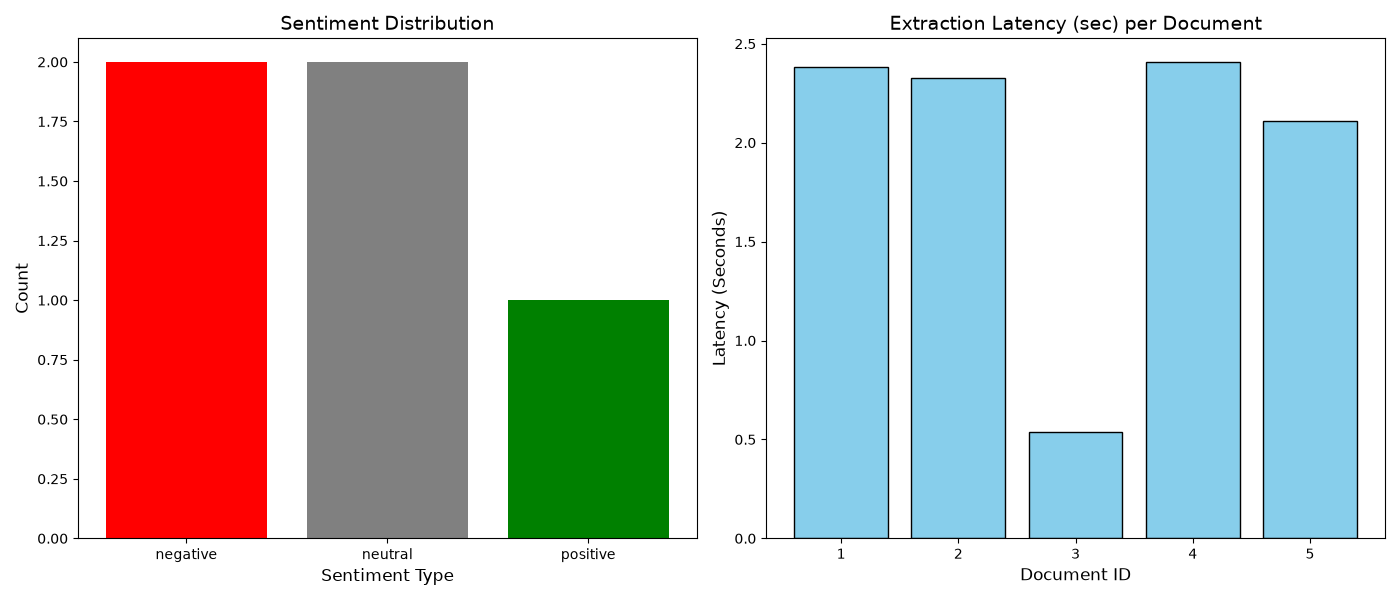
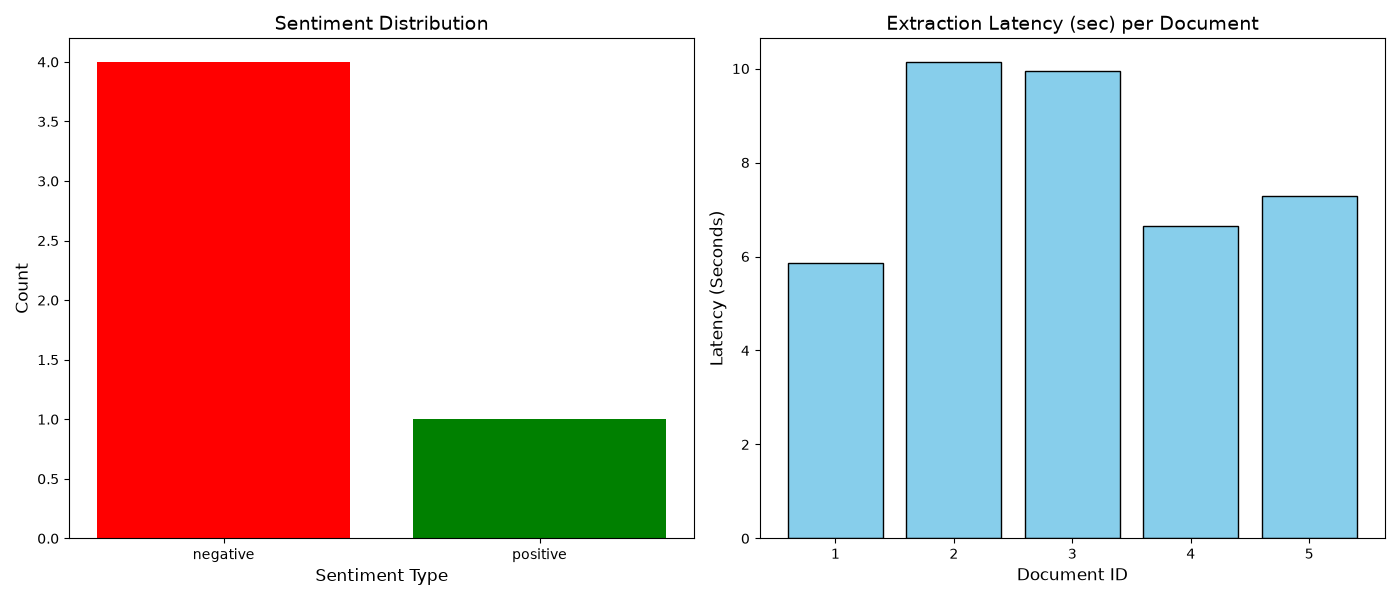
feat): connect live Gemini API for structured NLP extraction

diff --git a/main.py b/main.py
@@ -5,8 +5,11 @@ import matplotlib.pyplot as plt
 from pydantic import BaseModel, Field
 from typing import List, Literal
 from dotenv import load_dotenv
+import os
+from google import genai
 
 load_dotenv()
+client = genai.Client()
 
 class SentimentResult(BaseModel):
     sentiment: Literal['positive', 'neutral', 'negative'] = Field(
@@ -30,40 +33,35 @@ MOCK_DATASET = [
     "This is the worst experience I've ever had. I want a refund right now."
 ]
 
-def simulate_llm_extraction(text: str) -> dict:
-    #API latency
-    latency = random.uniform(0.5, 2.5)
-    time.sleep(latency)
-    
-    input_tokens = len(text.split()) * 1.5
-    output_tokens = random.uniform(20, 50)
-    total_tokens = int(input_tokens + output_tokens)
-    
-    text_lower = text.lower()
-    
-    if "love" in text_lower or "great" in text_lower:
-        sentiment = "positive"
-        action_required = False
-        key_topics = ["dashboard", "workflow", "usability"]
-    elif "worst" in text_lower or "crashing" in text_lower or "refund" in text_lower:
-        sentiment = "negative"
-        action_required = True
-        key_topics = ["crash", "pdf_upload", "refund", "stability"]
-    elif "add" in text_lower or "request" in text_lower or "dark mode" in text_lower:
-        sentiment = "neutral"
-        action_required = False
-        key_topics = ["feature_request", "dark_mode"]
-    else:
-        sentiment = "neutral"
-        action_required = bool(random.choice([True, False]))
-        key_topics = ["general", "customer_service"]
-        
-    result = SentimentResult(
-        sentiment=sentiment,
-        confidence_score=round(random.uniform(0.7, 0.99), 2),
-        key_topics=key_topics,
-        action_required=action_required
-    )
+from google.genai.errors import ServerError, ClientError
+
+def extract_with_gemini(text: str) -> dict:
+    """ Google Gemini API to extract structured sentiment."""
+    for attempt in range(5):
+        try:
+            start_time = time.perf_counter()
+            
+            response = client.models.generate_content(
+                model='gemini-3.6-flash',
+                contents=text,
+                config=genai.types.GenerateContentConfig(
+                    response_mime_type="application/json",
+                    response_schema=SentimentResult,
+                ),
+            )
+            
+            latency = time.perf_counter() - start_time
+            prompt_tokens = response.usage_metadata.prompt_token_count
+            completion_tokens = response.usage_metadata.candidates_token_count
+            
+            result = SentimentResult.model_validate_json(response.text)
+            break
+        except (ServerError, ClientError) as e:
+            if attempt < 4:
+                print(f"API Error ({e}). Retrying in 5 seconds (attempt {attempt+1}/5)...")
+                time.sleep(5)
+            else:
+                raise e
     
     return {
         "text": text,
@@ -72,7 +70,7 @@ def simulate_llm_extraction(text: str) -> dict:
         "key_topics": ", ".join(result.key_topics),
         "action_required": result.action_required,
         "latency_sec": round(latency, 3),
-        "total_tokens": total_tokens
+        "total_tokens": prompt_tokens + completion_tokens
     }
 
 def process_dataset():
@@ -80,7 +78,7 @@ def process_dataset():
     print("Starting extraction pipeline...")
     for i, text in enumerate(MOCK_DATASET):
         print(f"Processing text {i+1}/{len(MOCK_DATASET)}...")
-        res = simulate_llm_extraction(text)
+        res = extract_with_gemini(text)
         results.append(res)
     
     df = pd.DataFrame(results)
